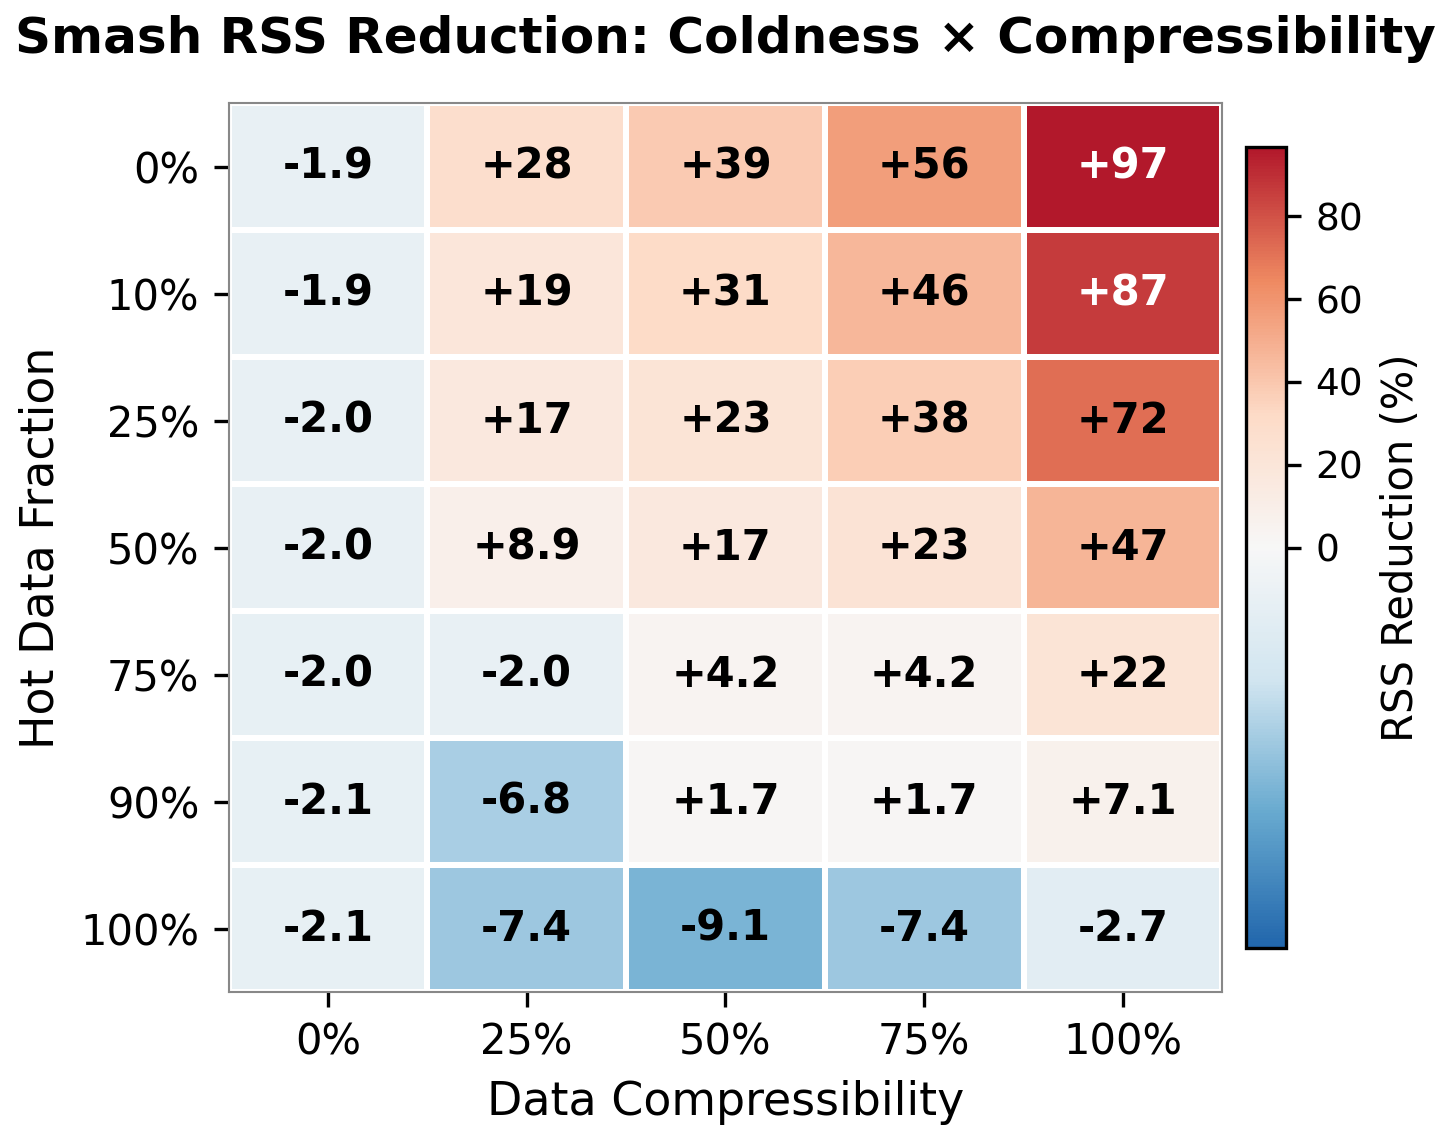
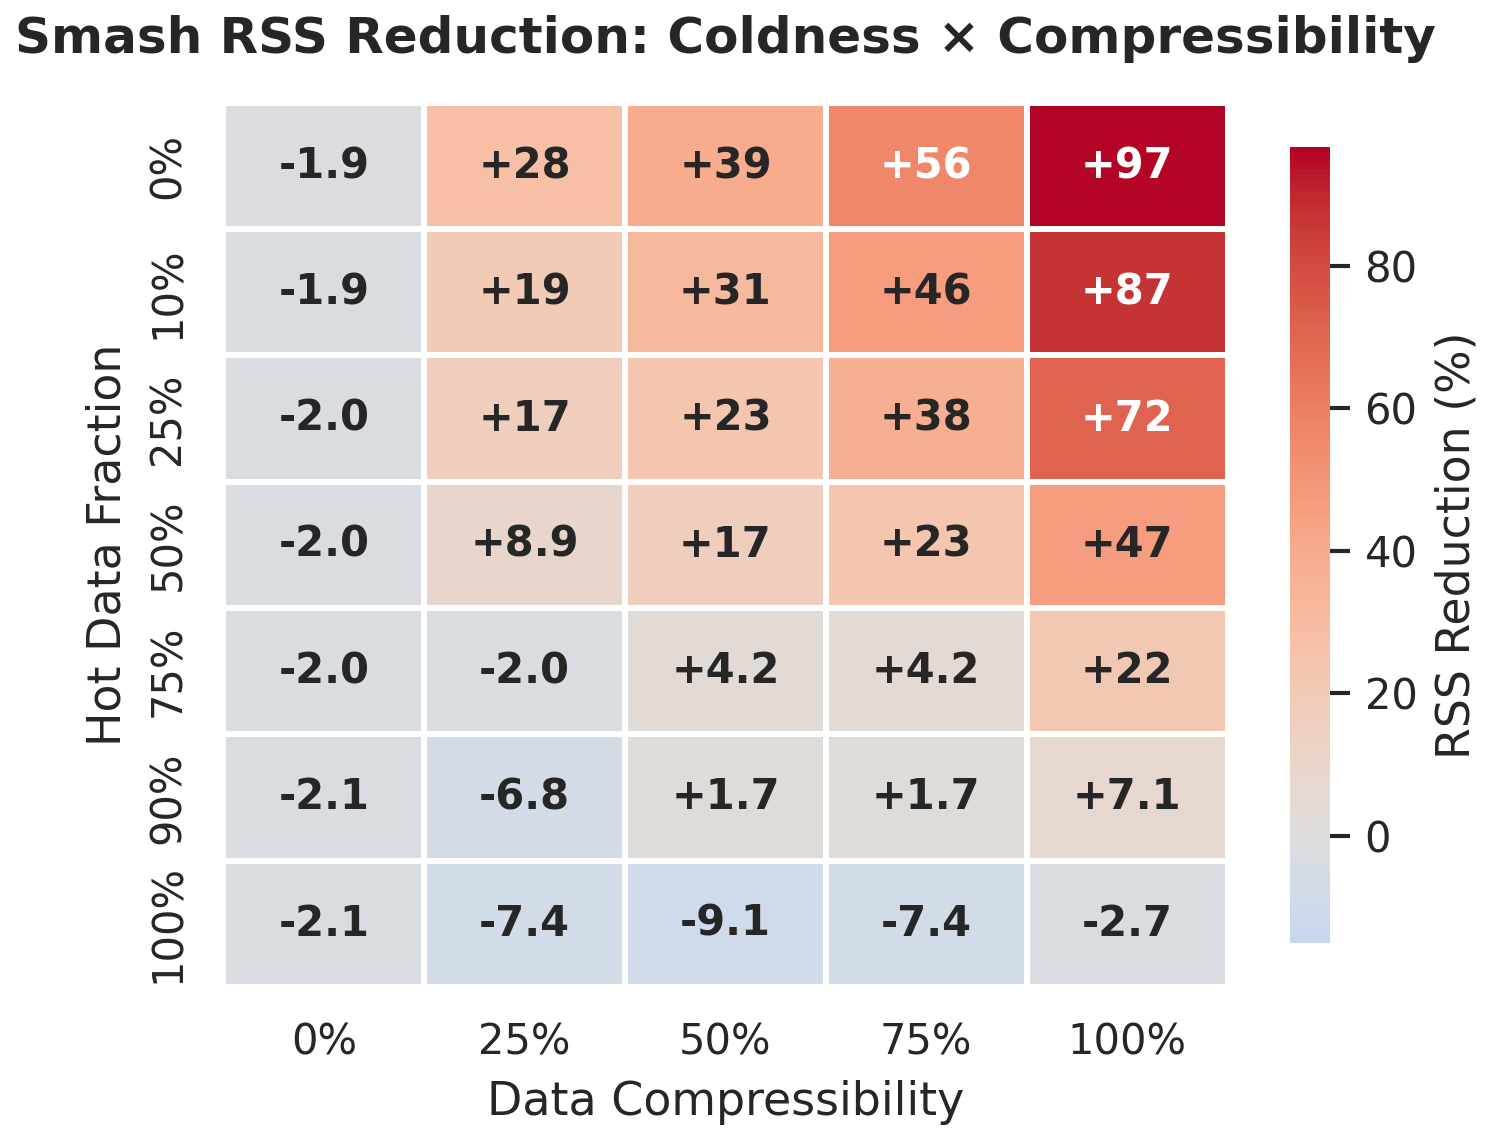
Use seaborn for heatmap generation
- Adopt seaborn's sns.heatmap with coolwarm palette
- Cleaner whitegrid style with consistent font scaling
- Better diverging colormap centered at zero

diff --git a/bench/plot_heatmap.py b/bench/plot_heatmap.py
@@ -8,11 +8,13 @@ import argparse
 import json
 import numpy as np
 import matplotlib.pyplot as plt
-import matplotlib.colors as mcolors
-from matplotlib.patches import Rectangle
+import seaborn as sns
 from pathlib import Path
 
-# Use sans-serif fonts for publication
+# Set seaborn style for clean, modern aesthetics
+sns.set_theme(style="whitegrid", context="paper", font_scale=1.1)
+
+# Use sans-serif fonts for modern look
 plt.rcParams.update({
     'font.family': 'sans-serif',
     'font.sans-serif': ['Helvetica', 'Arial', 'DejaVu Sans', 'Liberation Sans'],
@@ -55,78 +57,50 @@ def load_results(json_path):
 
 
 def create_heatmap(benefit, hot_pcts, compress_pcts, output_path, title=None):
-    """Create publication-quality heatmap."""
+    """Create publication-quality heatmap using seaborn."""
 
     # Figure size for single-column (3.5") or double-column (7") LaTeX
-    fig, ax = plt.subplots(figsize=(4.5, 3.5))
+    fig, ax = plt.subplots(figsize=(5, 4))
 
-    # Custom diverging colormap: blue (negative/overhead) -> white (zero) -> red (positive/benefit)
-    # Sanborn-style uses warm colors for "hot" values
-    colors_neg = plt.cm.Blues_r(np.linspace(0.2, 0.8, 128))  # Blue for overhead
-    colors_pos = plt.cm.Reds(np.linspace(0.2, 0.9, 128))     # Red for benefit
-    all_colors = np.vstack([colors_neg, colors_pos])
-    cmap = mcolors.LinearSegmentedColormap.from_list('smash_benefit', all_colors)
+    # Create custom diverging colormap centered at zero
+    # Blue for overhead (negative), white at zero, red for benefit (positive)
+    vmin = min(-10, benefit.min())
+    vmax = benefit.max()
+    center = 0
 
-    # Determine color scale limits (symmetric around zero, or based on data)
-    vmax = max(abs(benefit.min()), abs(benefit.max()))
-    vmin = -vmax * 0.15  # Asymmetric: less negative range since overhead is small
-    vmax = benefit.max() * 1.05
-
-    # For truly symmetric colormap around zero:
-    # vmin, vmax = -max(abs(benefit.min()), benefit.max()), max(abs(benefit.min()), benefit.max())
-
-    # Create custom norm to center white at zero
-    # Use TwoSlopeNorm to have different scales for negative and positive
-    norm = mcolors.TwoSlopeNorm(vmin=min(-10, benefit.min()), vcenter=0, vmax=benefit.max())
-
-    # Plot heatmap
-    im = ax.imshow(benefit, cmap=cmap, norm=norm, aspect='auto')
-
-    # Add text annotations
-    for i in range(len(hot_pcts)):
-        for j in range(len(compress_pcts)):
+    # Format annotations with percentage signs
+    annot_data = np.empty_like(benefit, dtype=object)
+    for i in range(benefit.shape[0]):
+        for j in range(benefit.shape[1]):
             val = benefit[i, j]
-            # Choose text color based on background intensity
-            # White text on dark backgrounds, black on light
-            bg_color = cmap(norm(val))
-            luminance = 0.299 * bg_color[0] + 0.587 * bg_color[1] + 0.114 * bg_color[2]
-            text_color = 'white' if luminance < 0.6 else 'black'
-
-            # Format: show sign, one decimal place
             if val >= 0:
-                text = f'+{val:.0f}%' if val >= 10 else f'+{val:.1f}%'
+                annot_data[i, j] = f'+{val:.0f}%' if val >= 10 else f'+{val:.1f}%'
             else:
-                text = f'{val:.0f}%' if val <= -10 else f'{val:.1f}%'
+                annot_data[i, j] = f'{val:.0f}%' if val <= -10 else f'{val:.1f}%'
 
-            ax.text(j, i, text, ha='center', va='center',
-                    color=text_color, fontsize=9, fontweight='medium')
-
-    # Axis labels
-    ax.set_xticks(range(len(compress_pcts)))
-    ax.set_xticklabels([f'{c}%' for c in compress_pcts])
-    ax.set_yticks(range(len(hot_pcts)))
-    ax.set_yticklabels([f'{h}%' for h in hot_pcts])
+    # Use seaborn heatmap with diverging colormap
+    sns.heatmap(
+        benefit,
+        ax=ax,
+        cmap='RdBu_r',
+        center=center,
+        vmin=vmin,
+        vmax=vmax,
+        annot=annot_data,
+        fmt='',
+        annot_kws={'size': 9, 'weight': 'medium'},
+        linewidths=0.5,
+        linecolor='white',
+        cbar_kws={'label': 'RSS Reduction (%)', 'shrink': 0.85},
+        xticklabels=[f'{c}%' for c in compress_pcts],
+        yticklabels=[f'{h}%' for h in hot_pcts],
+    )
 
     ax.set_xlabel('Data Compressibility', fontweight='medium')
     ax.set_ylabel('Hot Data Fraction', fontweight='medium')
 
-    # Title
     if title:
         ax.set_title(title, fontweight='bold', pad=10)
-
-    # Colorbar
-    cbar = fig.colorbar(im, ax=ax, shrink=0.85, pad=0.02)
-    cbar.set_label('RSS Reduction (%)', fontweight='medium')
-
-    # Add subtle grid lines between cells
-    for i in range(len(hot_pcts) + 1):
-        ax.axhline(i - 0.5, color='white', linewidth=0.5, alpha=0.3)
-    for j in range(len(compress_pcts) + 1):
-        ax.axvline(j - 0.5, color='white', linewidth=0.5, alpha=0.3)
-
-    # Remove spines
-    for spine in ax.spines.values():
-        spine.set_visible(False)
 
     plt.tight_layout()
 
@@ -140,62 +114,43 @@ def create_heatmap(benefit, hot_pcts, compress_pcts, output_path, title=None):
     plt.close()
 
 
-def create_sanborn_colormap():
-    """Create Sanborn-inspired colormap: cool blues -> cream -> warm earth tones."""
-    from matplotlib.colors import LinearSegmentedColormap
-
-    # Sanborn color palette: deep blue -> light blue -> cream -> tan -> warm orange -> deep red
-    colors = [
-        '#2166ac',  # Deep blue (negative/overhead)
-        '#67a9cf',  # Light blue
-        '#d1e5f0',  # Very light blue
-        '#f7f7f7',  # Near white/cream (zero point)
-        '#fddbc7',  # Light peach
-        '#ef8a62',  # Warm orange
-        '#b2182b',  # Deep red (high positive)
-    ]
-
-    # Create colormap with more resolution near zero
-    return LinearSegmentedColormap.from_list('sanborn', colors, N=256)
-
-
 def create_heatmap_v2(benefit, hot_pcts, compress_pcts, output_path, title=None):
-    """Sanborn-style heatmap with sans-serif fonts."""
+    """Alternative version with seaborn styling and coolwarm palette."""
 
     fig, ax = plt.subplots(figsize=(5, 4))
 
-    # Sanborn-inspired colormap: cool blues -> cream -> warm earth tones
-    cmap = create_sanborn_colormap()
+    # Format annotations with percentage signs
+    annot_data = np.empty_like(benefit, dtype=object)
+    for i in range(benefit.shape[0]):
+        for j in range(benefit.shape[1]):
+            val = benefit[i, j]
+            if val >= 0:
+                annot_data[i, j] = f'+{val:.0f}' if val >= 10 else f'+{val:.1f}'
+            else:
+                annot_data[i, j] = f'{val:.0f}' if val <= -10 else f'{val:.1f}'
 
     # Normalize with zero centered
     vmin = min(-15, benefit.min())
     vmax = benefit.max()
-    norm = mcolors.TwoSlopeNorm(vmin=vmin, vcenter=0, vmax=vmax)
 
-    # Plot with pcolormesh for better control
-    im = ax.pcolormesh(benefit, cmap=cmap, norm=norm, edgecolors='white', linewidth=1)
-
-    # Add text annotations (offset by 0.5 for pcolormesh)
-    for i in range(len(hot_pcts)):
-        for j in range(len(compress_pcts)):
-            val = benefit[i, j]
-            bg_color = cmap(norm(val))
-            luminance = 0.299 * bg_color[0] + 0.587 * bg_color[1] + 0.114 * bg_color[2]
-            text_color = 'white' if luminance < 0.55 else 'black'
-
-            if val >= 0:
-                text = f'+{val:.0f}' if val >= 10 else f'+{val:.1f}'
-            else:
-                text = f'{val:.0f}' if val <= -10 else f'{val:.1f}'
-
-            ax.text(j + 0.5, i + 0.5, text, ha='center', va='center',
-                    color=text_color, fontsize=10, fontweight='bold')
-
-    # Axis setup
-    ax.set_xticks(np.arange(len(compress_pcts)) + 0.5)
-    ax.set_xticklabels([f'{c}%' for c in compress_pcts])
-    ax.set_yticks(np.arange(len(hot_pcts)) + 0.5)
-    ax.set_yticklabels([f'{h}%' for h in hot_pcts])
+    # Use seaborn heatmap with coolwarm palette for a warmer Sanborn-like feel
+    sns.heatmap(
+        benefit,
+        ax=ax,
+        cmap='coolwarm',
+        center=0,
+        vmin=vmin,
+        vmax=vmax,
+        annot=annot_data,
+        fmt='',
+        annot_kws={'size': 10, 'weight': 'bold'},
+        linewidths=1,
+        linecolor='white',
+        cbar_kws={'label': 'RSS Reduction (%)', 'shrink': 0.9},
+        xticklabels=[f'{c}%' for c in compress_pcts],
+        yticklabels=[f'{h}%' for h in hot_pcts],
+        square=False,
+    )
 
     ax.set_xlabel('Data Compressibility', fontsize=11, fontweight='medium')
     ax.set_ylabel('Hot Data Fraction', fontsize=11, fontweight='medium')
@@ -203,16 +158,7 @@ def create_heatmap_v2(benefit, hot_pcts, compress_pcts, output_path, title=None)
     if title:
         ax.set_title(title, fontsize=12, fontweight='bold', pad=12)
 
-    # Colorbar
-    cbar = fig.colorbar(im, ax=ax, shrink=0.9, pad=0.02)
-    cbar.set_label('RSS Reduction (%)', fontsize=10, fontweight='medium')
-    cbar.ax.tick_params(labelsize=9)
-
-    # Style
-    ax.set_xlim(0, len(compress_pcts))
-    ax.set_ylim(0, len(hot_pcts))
-    ax.invert_yaxis()  # 0% hot at top
-
+    # Clean up spines
     for spine in ax.spines.values():
         spine.set_linewidth(0.5)
         spine.set_color('#888888')
